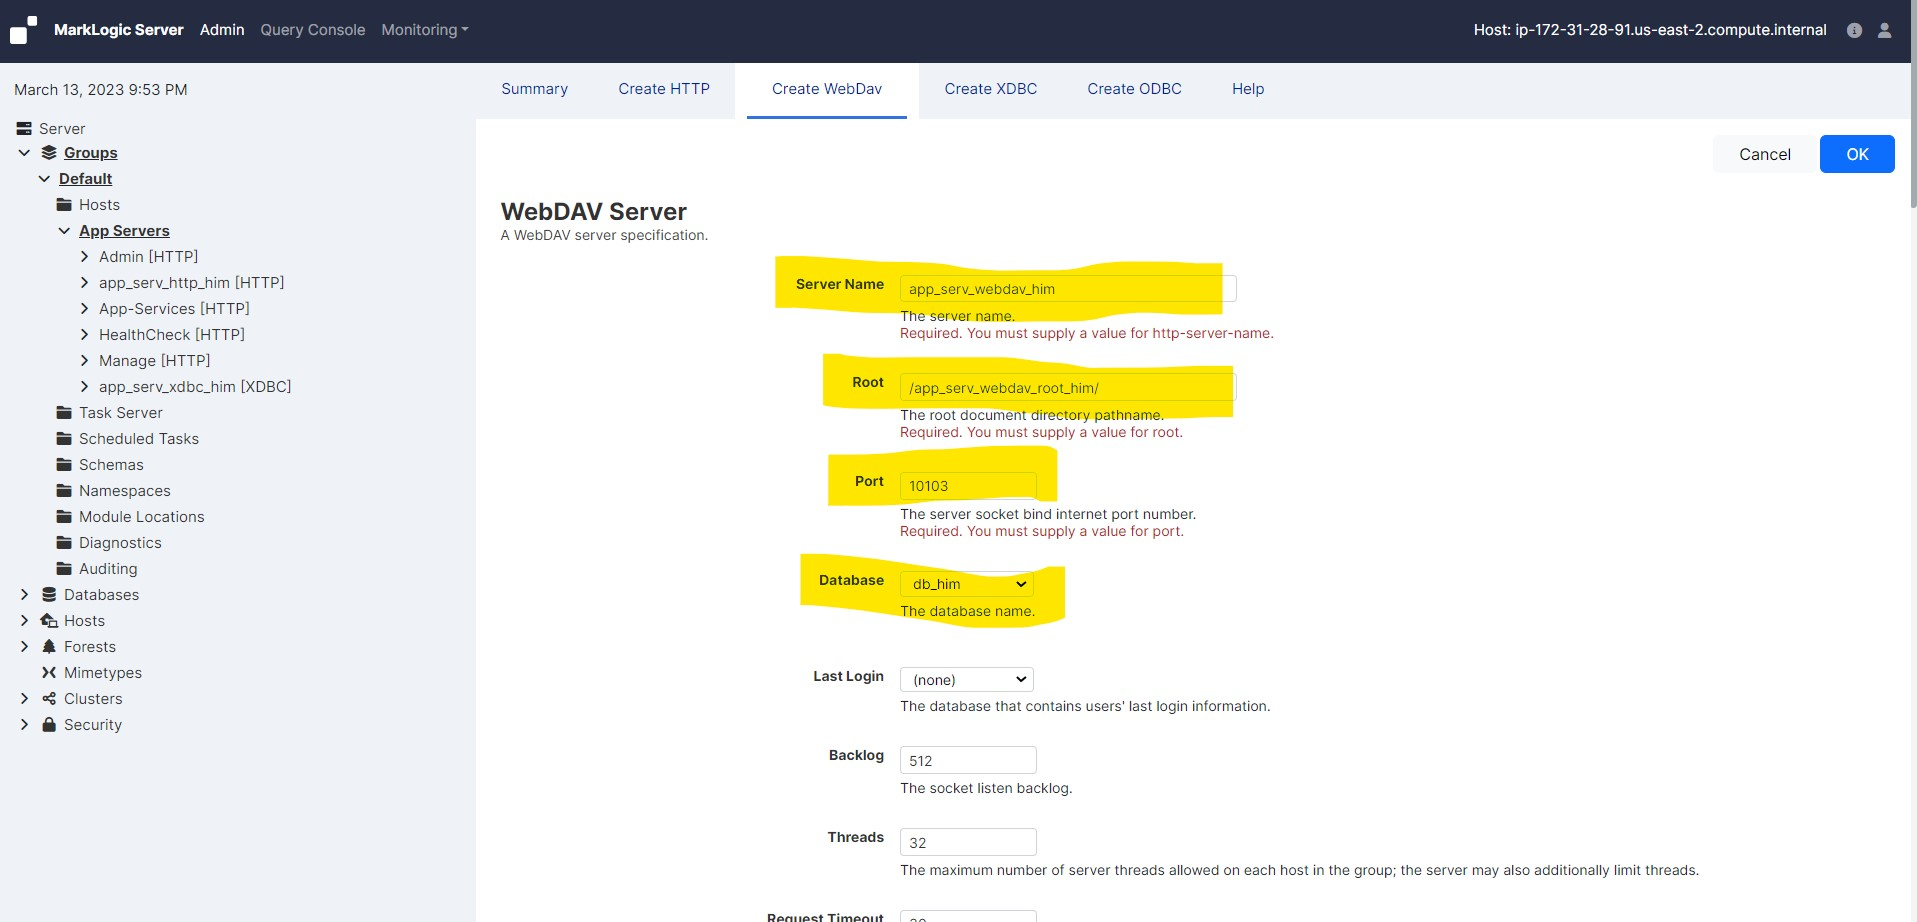
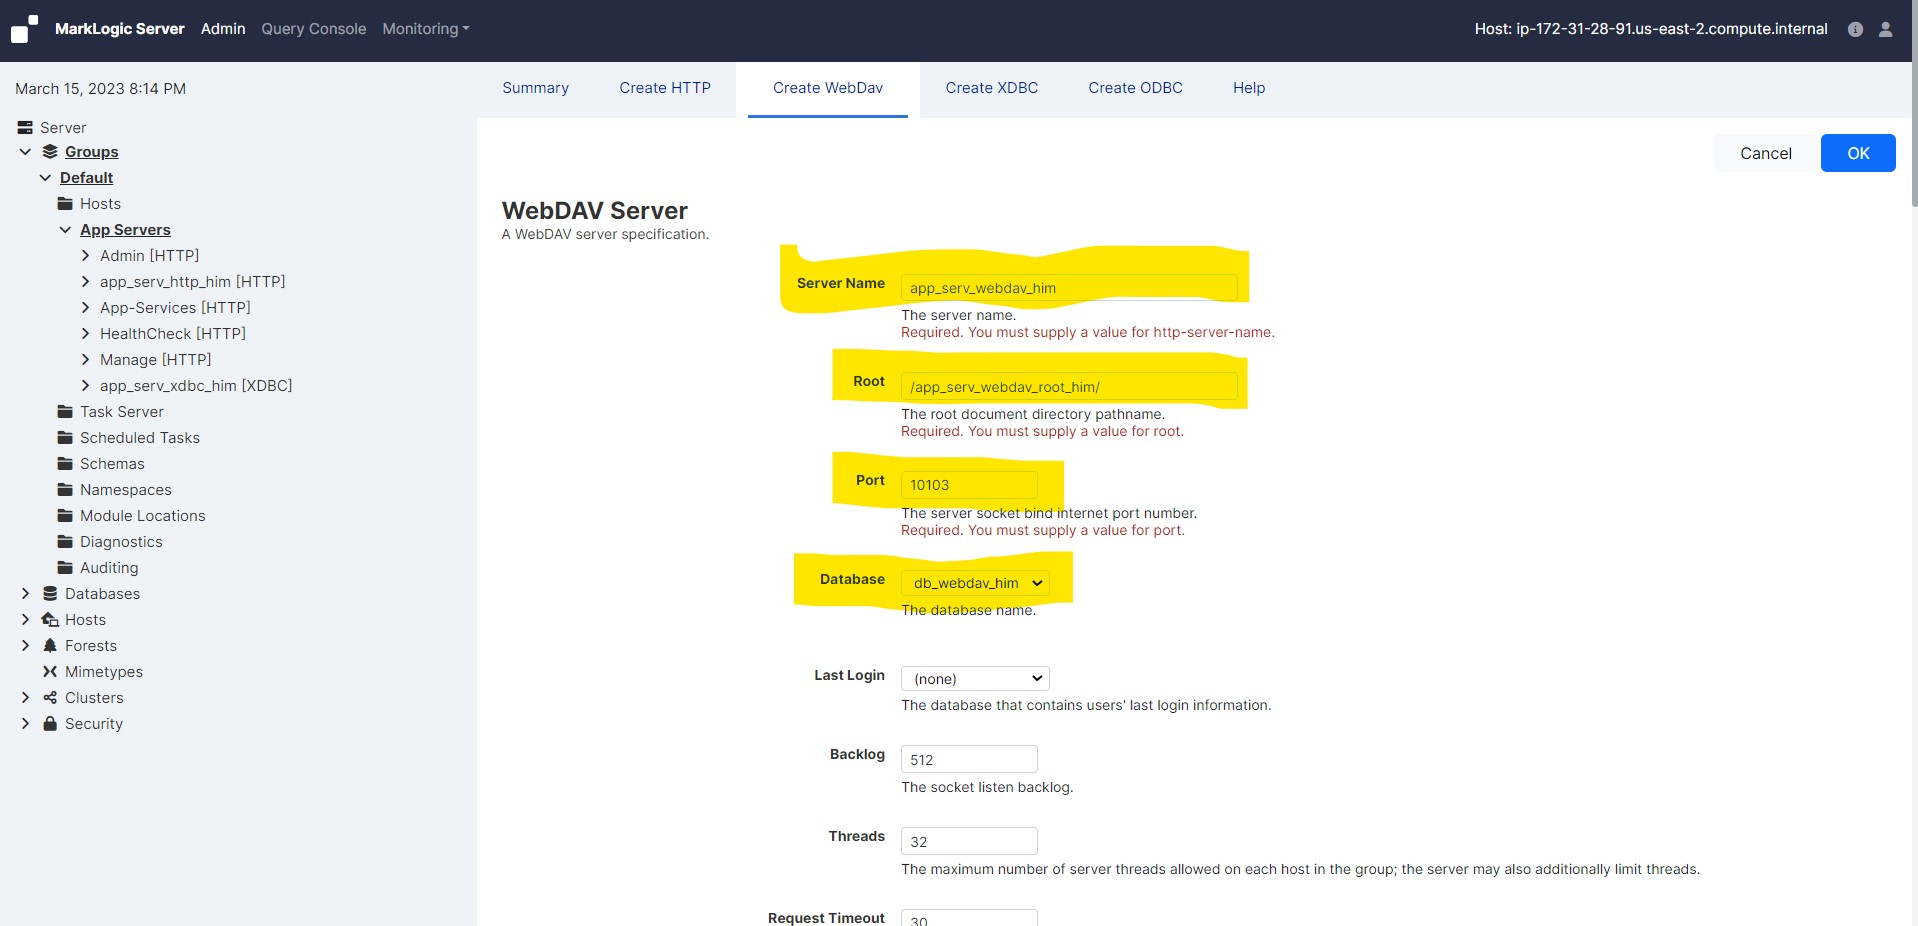
updated lab 14

diff --git a/marklogic/14-create_new_webdav_server.md b/marklogic/14-create_new_webdav_server.md
@@ -1,6 +1,32 @@
 # Create a new WebDAV server
 
-### To create a new server, complete the following steps:
+## To create a new server, complete the following steps:
+
+### Step 1: Creat a forest
+
+* Create a new forest
+
+    <img src="../images/webdav_6.jpg" style="width:80%;"/> <!-- {"left" : 0.26, "top" : 1.45, "height" : 6.17, "width" : 9.74} -->
+
+### Step 2: Creat a database
+
+* Create a new database
+
+* Provide a database name, select "Security" as Security Database, select "Schemas" as Schema Database
+
+    <img src="../images/webdav_4.jpg" style="width:80%;"/> <!-- {"left" : 0.26, "top" : 1.45, "height" : 6.17, "width" : 9.74} -->
+
+* Scrol down and select the Directory creation option to automatic
+
+    <img src="../images/webdav_5.jpg" style="width:80%;"/> <!-- {"left" : 0.26, "top" : 1.45, "height" : 6.17, "width" : 9.74} -->
+
+* Click OK
+
+    <img src="../images/webdav_7.jpg" style="width:80%;"/> <!-- {"left" : 0.26, "top" : 1.45, "height" : 6.17, "width" : 9.74} -->
+
+* Attach this database to the forest
+
+### Step 3: Creat a WebDAV server
 
 * Log into the Admin Interface in a browser. It is on port 8001 of the host in which MarkLogic is running. From your windows machine, http://18.222.133.222:8001 (In this case the EC2 instance IP is 18.222.133.222. Accordingly you neee to change it as per your EC2 instance IP).
 
@@ -44,11 +70,6 @@
 
 * Scroll to the top or bottom and click OK
 
-Start from here !!!!!!!!!!!!!!!!!!!!!!!!111
-Start from here !!!!!!!!!!!!!!!!!!!!!!!!111
-Start from here !!!!!!!!!!!!!!!!!!!!!!!!111
-Start from here !!!!!!!!!!!!!!!!!!!!!!!!111
-
 * You successfully created a WebDAV server
 
-    <img src="../images/xdbc_4.jpg" style="width:80%;"/> <!-- {"left" : 0.26, "top" : 1.45, "height" : 6.17, "width" : 9.74} -->
+    <img src="../images/webdav_8.jpg" style="width:80%;"/> <!-- {"left" : 0.26, "top" : 1.45, "height" : 6.17, "width" : 9.74} -->
